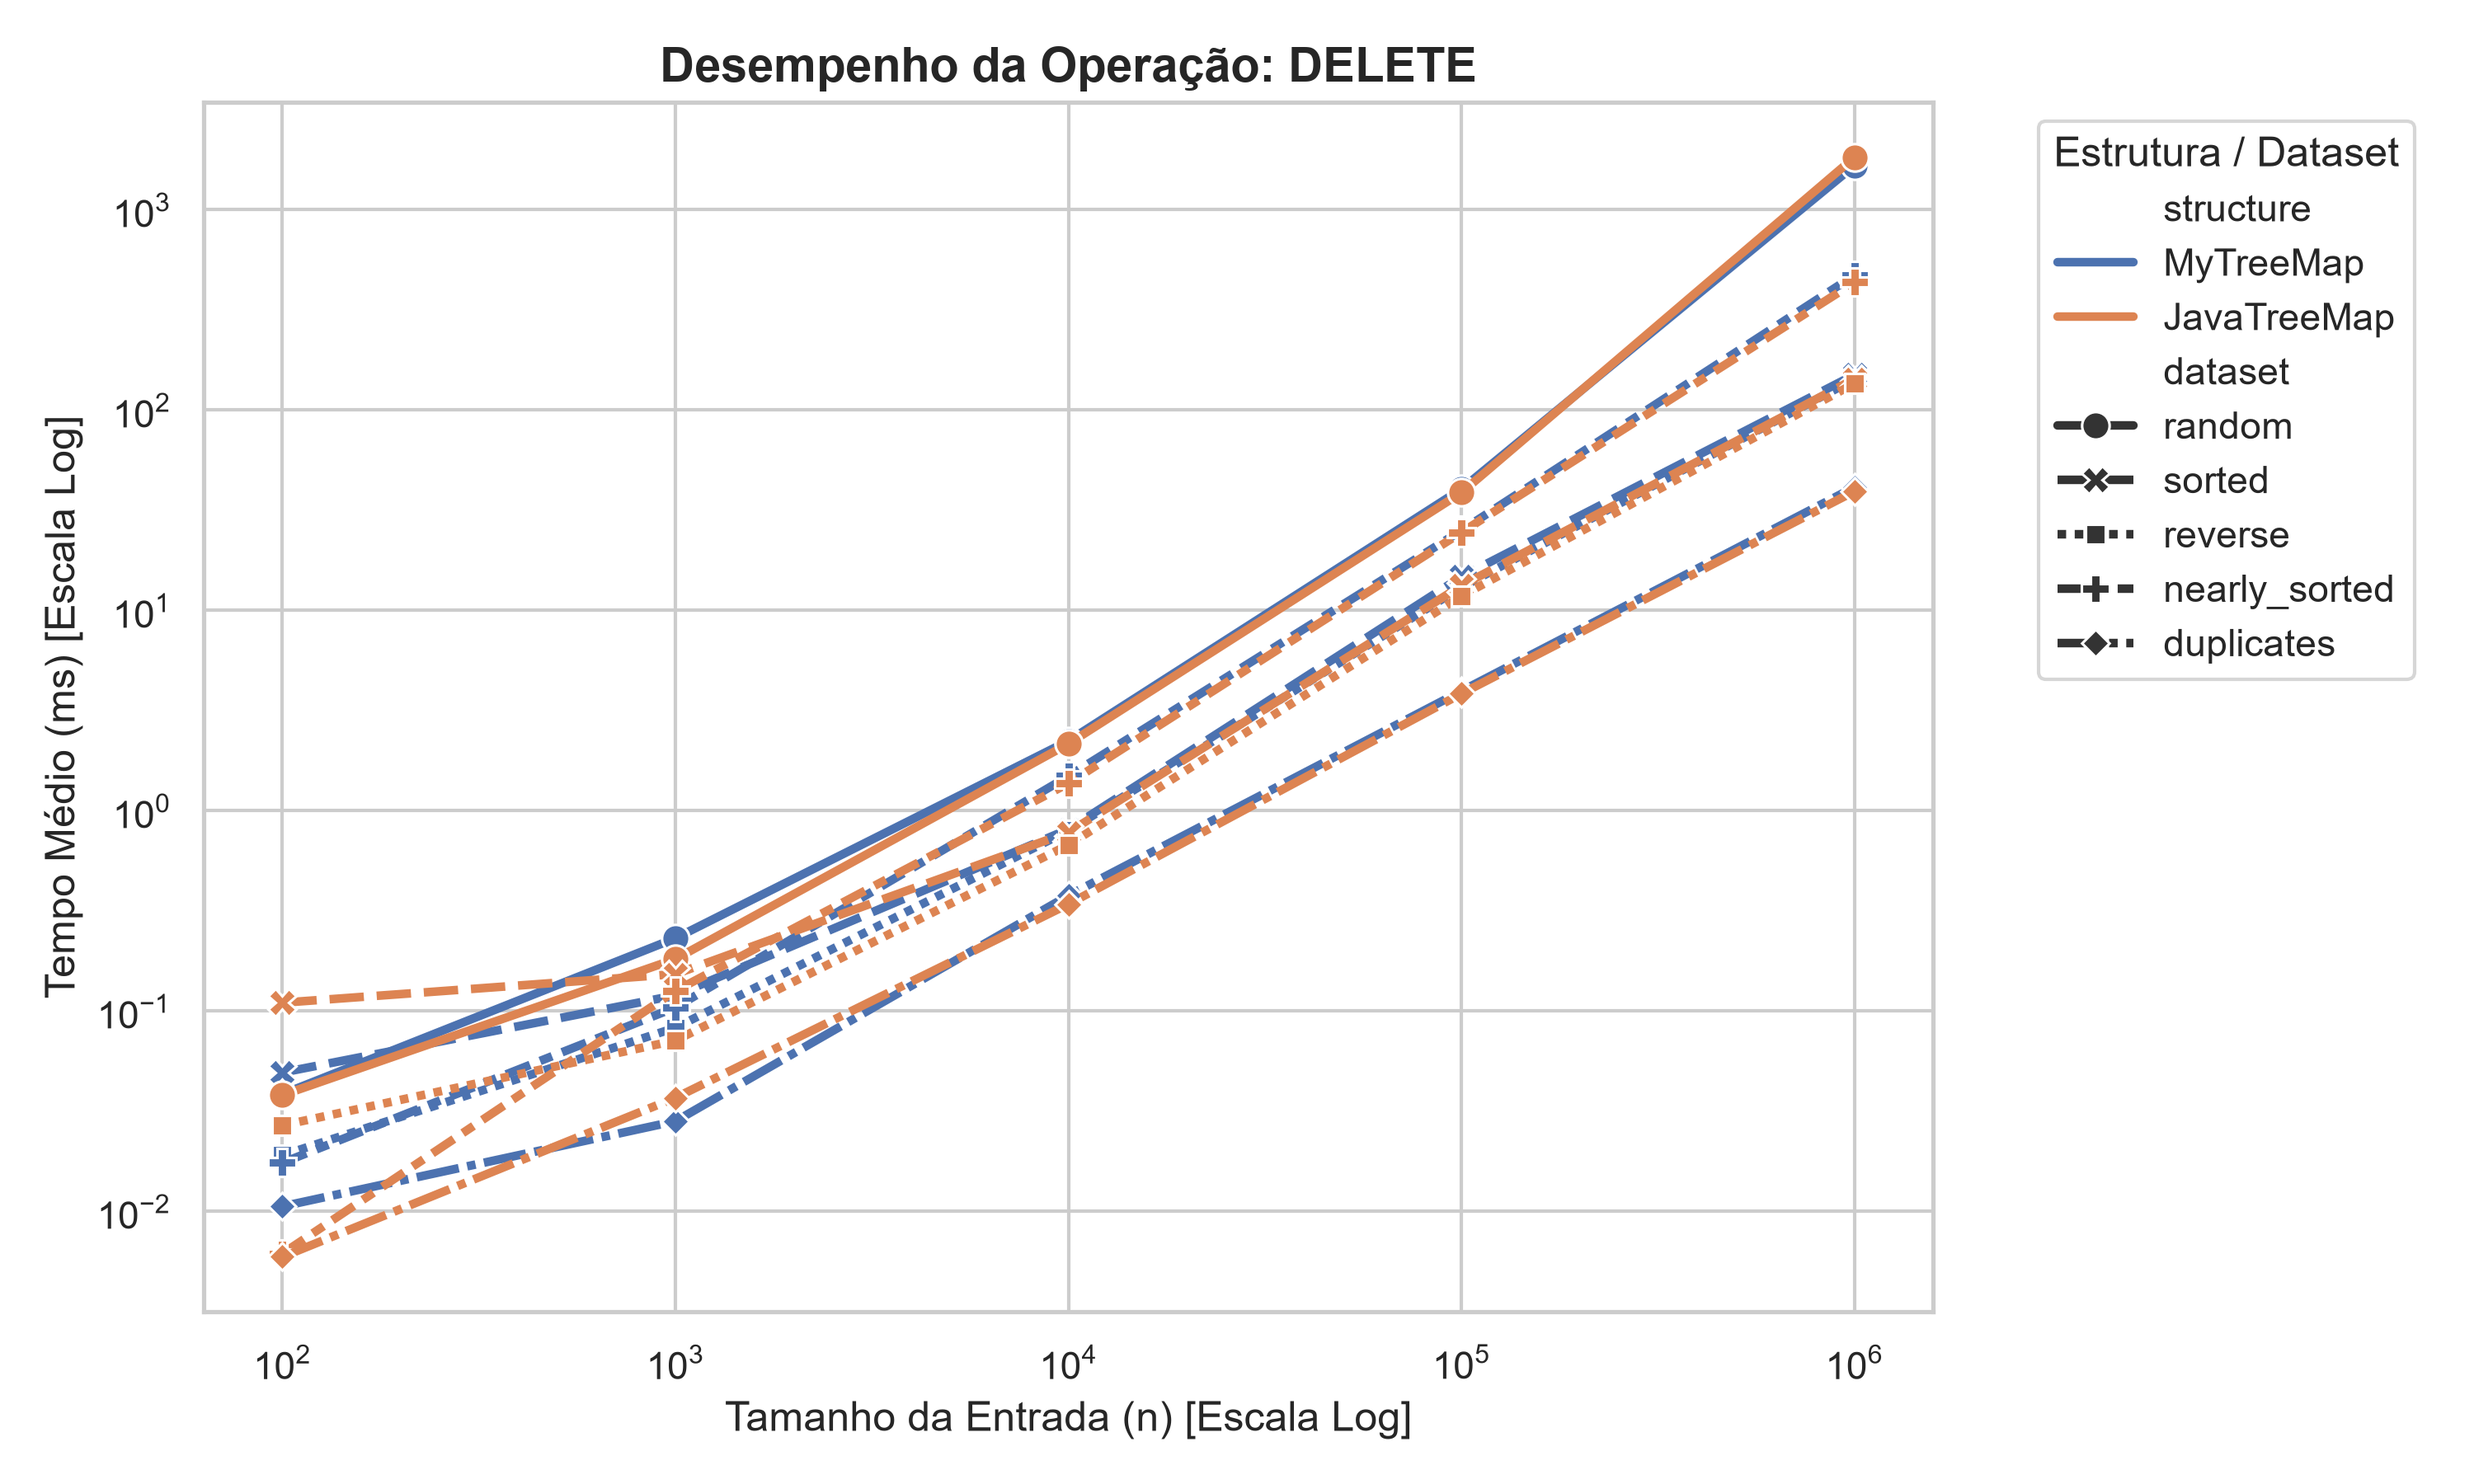
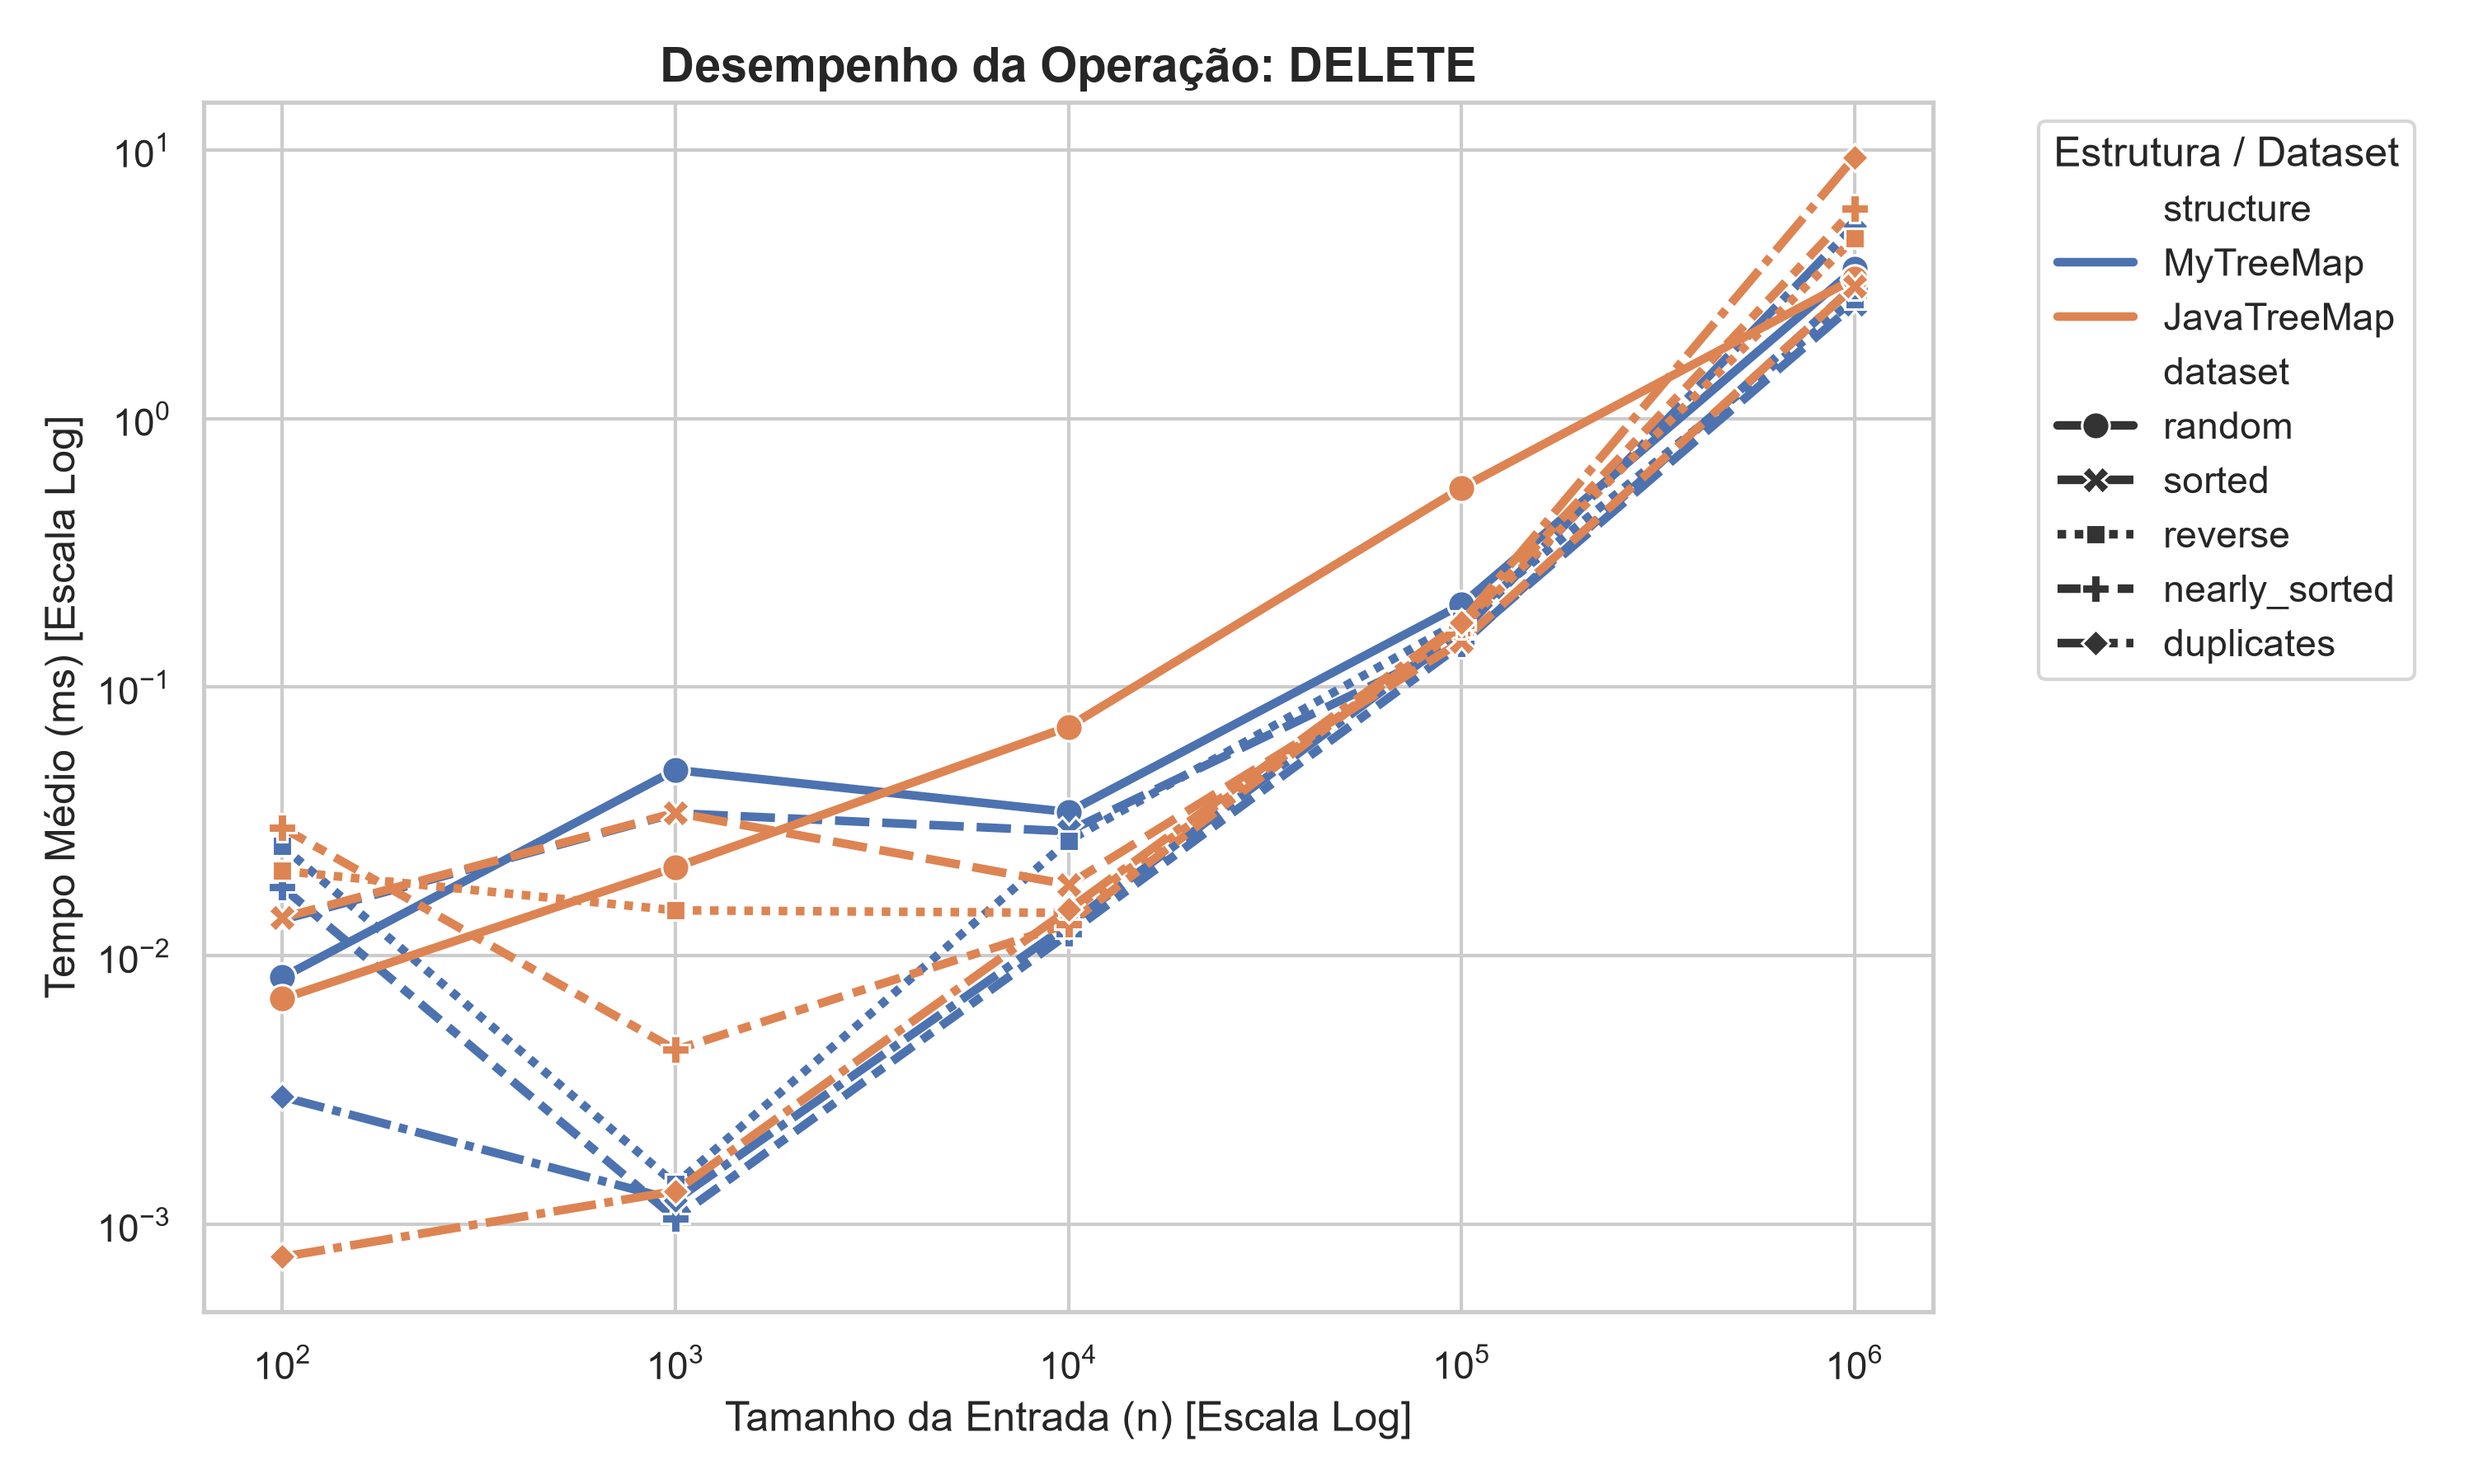
correção de testes de deleção e carga mista do benchmark, incluindo correção dos gráficos

diff --git a/src/main/java/benchmark/TreeMapBenchmark.java b/src/main/java/benchmark/TreeMapBenchmark.java
@@ -53,27 +53,23 @@ public class TreeMapBenchmark {
                 }, repetitions, warmup);
 
                 benchmark.register("MyTreeMap", "DELETE", datasetType, size, () -> {
-                    TreeMap<Integer, Integer> tree = buildMyTree(data);
                     for (int v : data) {
-                        tree.remove(v);
+                        myPrebuilt.remove(v);
                     }
                 }, repetitions, warmup);
 
                 benchmark.register("JavaTreeMap", "DELETE", datasetType, size, () -> {
-                    java.util.TreeMap<Integer, Integer> tree = buildJavaTree(data);
                     for (int v : data) {
-                        tree.remove(v);
+                        javaPrebuilt.remove(v);
                     }
                 }, repetitions, warmup);
 
                 benchmark.register("MyTreeMap", "MIXED_WORKLOAD", datasetType, size, () -> {
-                    TreeMap<Integer, Integer> tree = buildMyTree(data);
-                    runMixedMyTree(tree, data);
+                    runMixedMyTree(myPrebuilt, data);
                 }, repetitions, warmup);
 
                 benchmark.register("JavaTreeMap", "MIXED_WORKLOAD", datasetType, size, () -> {
-                    java.util.TreeMap<Integer, Integer> tree = buildJavaTree(data);
-                    runMixedJavaTree(tree, data);
+                    runMixedJavaTree(javaPrebuilt, data);
                 }, repetitions, warmup);
             }
         }
